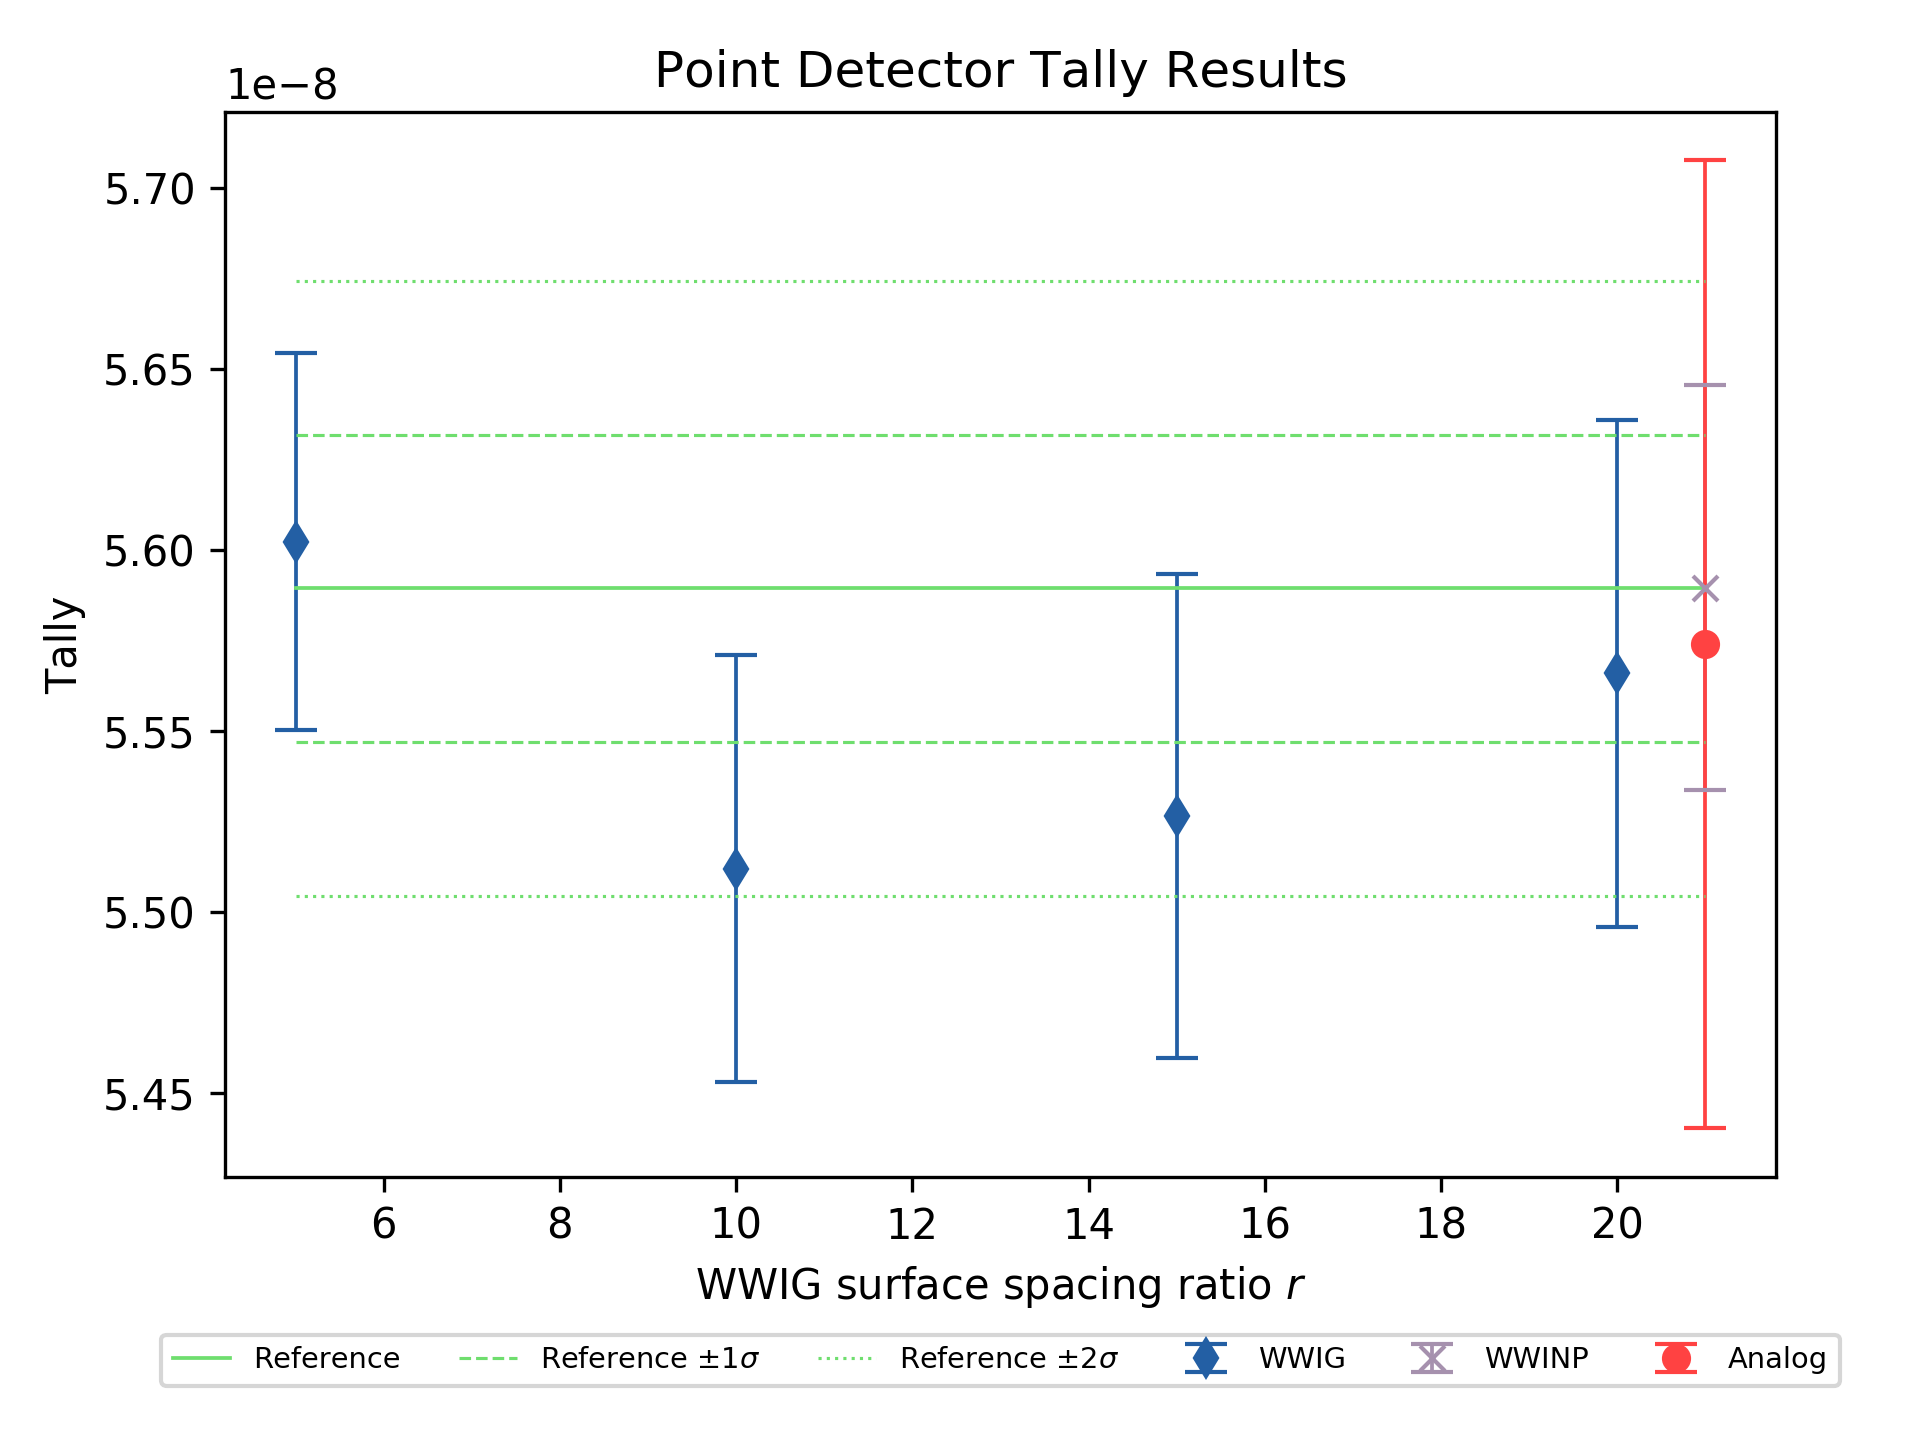
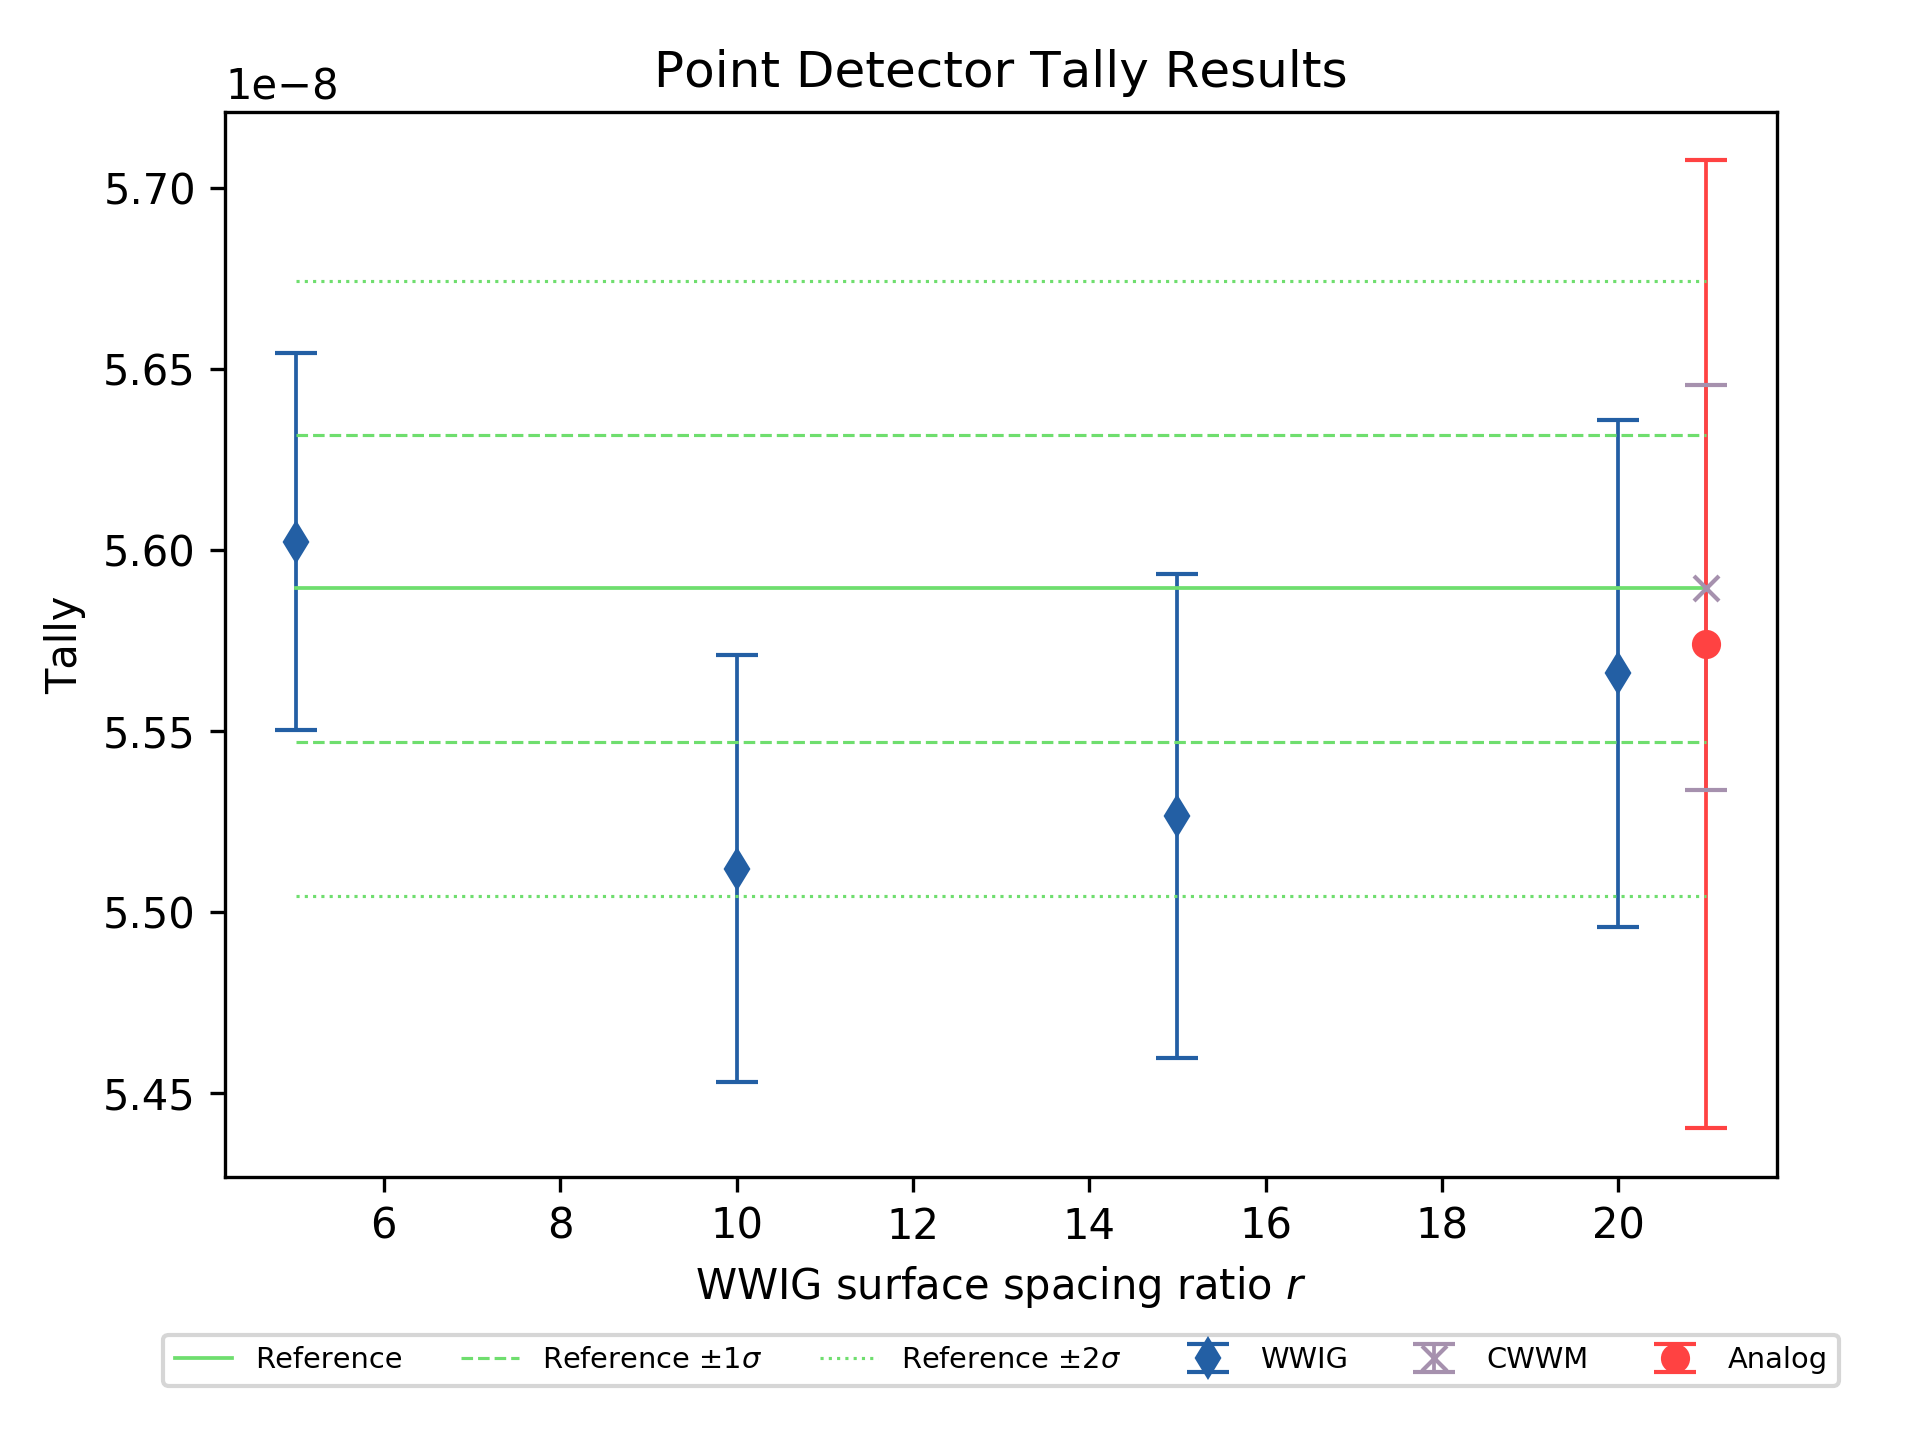
switch name to CWWM instead of WWINP

diff --git a/analyze/tally_15.py b/analyze/tally_15.py
@@ -57,7 +57,7 @@ plt.figure()
 plt.errorbar(ratios, wwig_res, yerr=(wwig_err * wwig_res), color=wwig_color,
              label='WWIG', ls='', marker='d', lw=.9, capsize=cs)
 plt.errorbar([ext_x], wwinp_res[0], yerr=(wwinp_err * wwinp_res)[0],
-             color=wwinp_color, label='WWINP', ls='', marker='x', lw=.9,
+             color=wwinp_color, label='CWWM', ls='', marker='x', lw=.9,
              capsize=cs)
 plt.errorbar([ext_x], analog_res[0], yerr=(analog_err * analog_res)[0],
              color=analog_color, label='Analog', ls='', marker='o', lw=.9,
@@ -116,9 +116,9 @@ plt.plot(ratios, wgr2_upper, label='WWIG/Ref $\pm 2\sigma$',
 plt.plot(ratios, wgr2_lower, label='', ls=':', lw=.75, color=wwig_color)
 # wwinp/reference
 plt.errorbar(ext_x, [1], yerr=(wpratio * wperr),
-             label='WWINP/Ref $\pm 1\sigma$', ls='', marker='', lw=.9,
+             label='CWWM/Ref $\pm 1\sigma$', ls='', marker='', lw=.9,
              capsize=cs, color=wwinp_color)
-plt.plot(ext_x, wpratio, label='WWINP/Ref', ls='',
+plt.plot(ext_x, wpratio, label='CWWM/Ref', ls='',
          marker='x', lw=.9, color=wwinp_color)
 # analog/reference
 plt.errorbar(ext_x, [1], yerr=(aratio * aerr),
@@ -142,7 +142,7 @@ plt.plot(ref_xs[:len(ratios)], ref_err[:len(ratios)], label='Reference',
          ls='-', marker='', lw=.9, color=ref_color)
 plt.plot(ratios, wwig_err, label='WWIG', ls='-', marker='d', lw=.9,
          color=wwig_color)
-plt.plot(ratios, wwinp_err, label='WWINP', ls='--', marker='', lw=.9,
+plt.plot(ratios, wwinp_err, label='CWWM', ls='--', marker='', lw=.9,
          color=wwinp_color)
 plt.plot(ratios, analog_err, label='Analog', ls='-.', marker='', lw=.9,
          color=analog_color)
